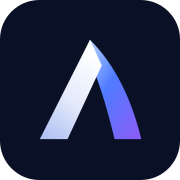
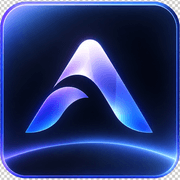
Replace the drawn sky with the artwork, and fix what the files were hiding
The CSS sky banded badly: a dark gradient across a few hundred pixels has
nowhere near enough steps on an 8-bit display, so it stepped where it should
have faded. Photographs carry their own grain and do not do this. The whole
drawn background, the generated starfield and the vector mark are gone.

Three things in the supplied files would have shipped as visible faults, and
each is corrected in scripts/make-brand.mjs next to the measurement that
found it:

The wordmark carries its halo in the colour channels but not in alpha —
79.5% of the file is fully clear, 8.7% fully opaque, under 3% anywhere in
between — so compositing it normally throws the halo away. Reviving it from
the colour channels failed twice: brightness-as-coverage paints the faint
grey halo onto the page and puts the wordmark in a grey box, and dividing
the colour back out trades that for a bright haze with the same rectangular
edge. The halo in the source is a rectangle, so any reconstruction of it is
one. The file is now the letters alone and CSS draws the glow, which
radiates from the glyphs and has no edge to show. 167 KB to 61 KB.

The tile was exported with the editor's transparency checkerboard flattened
into the pixels. It is image data, not transparency, and would have appeared
on every receipt row as grey plaid. The tile is the only region that is
either coloured or dark, which is how its bounds were found; the corners are
masked because cropping a rounded tile from a square leaves four triangles
[…]

diff --git a/docs/index.html b/docs/index.html
@@ -6,7 +6,7 @@
 <title>Aernyth</title>
 <meta name="description" content="Verifiable digital delivery on Arc. Circle's SDK settles the payment; Aernyth proves what was delivered for it.">
 
-<link rel="icon" href="icon.svg" type="image/svg+xml">
+<link rel="icon" href="icon-256.png" type="image/png" sizes="256x256">
 <link rel="apple-touch-icon" href="icon-180.png">
 <meta name="theme-color" content="#060a18">
 
@@ -19,8 +19,10 @@
 <meta property="og:url" content="https://kendu3310.github.io/arcproof/">
 <meta property="og:title" content="Aernyth — verifiable digital delivery">
 <meta property="og:description" content="Paying is easy. Proving delivery is the real problem. Receipts for paid API calls, written to Arc mainnet.">
-<meta property="og:image" content="https://kendu3310.github.io/arcproof/og.png">
+<meta property="og:image" content="https://kendu3310.github.io/arcproof/og.jpg">
 <meta name="twitter:card" content="summary_large_image">
+<meta property="og:image:width" content="1200">
+<meta property="og:image:height" content="630">
 
 <link rel="preconnect" href="https://fonts.googleapis.com">
 <link rel="preconnect" href="https://fonts.gstatic.com" crossorigin>
@@ -58,43 +60,25 @@
     overflow-x:hidden;
   }
 
-  /* ---------------------------------------------------- the night sky --- */
-  /* All of this is CSS and one 10 KB SVG. A photograph of the same scene
-     would be a megabyte or two and still be soft on a retina screen. */
+  /* -------------------------------------------------------------- the sky --- */
+  /* A fixed layer rather than background-attachment:fixed on the body, which
+     iOS Safari renders wrong. The portrait crop is a separate file: letting
+     cover() squeeze the landscape one into a phone throws away both edges,
+     where all the nebula detail is. */
   .space { position:fixed; inset:0; overflow:hidden; pointer-events:none; z-index:0; }
-  .stars {
-    position:absolute; inset:-5%;
-    background:url(stars.svg) 0 0 / 820px 820px repeat;
-    opacity:.55;
-    -webkit-mask-image:linear-gradient(to bottom,#000 0,#000 48%,transparent 82%);
-    mask-image:linear-gradient(to bottom,#000 0,#000 48%,transparent 82%);
+  .sky {
+    position:absolute; inset:0;
+    background:url(bg-desktop.webp) center top / cover no-repeat;
   }
-  .limb {
-    position:absolute; left:50%; top:11vh; transform:translateX(-50%);
-    width:min(260vw,2300px); aspect-ratio:1/1; border-radius:50%;
-    background:radial-gradient(circle at 50% 50%,
-      rgba(8,13,32,.96) 0 49.5%,
-      rgba(168,198,255,.9) 49.5% 49.74%,
-      rgba(96,136,255,.28) 49.74% 50.5%,
-      transparent 50.5%);
-  }
-  .limb::before {
-    content:""; position:absolute; inset:0; border-radius:50%;
-    background:radial-gradient(circle at 50% 50%,
-      transparent 0 49.2%,
-      rgba(96,136,255,.55) 49.5% 50%,
-      transparent 50.8%);
-    filter:blur(22px);
-  }
-  .flare {
-    position:absolute; left:14%; top:16vh; width:46vw; height:34vh;
-    background:radial-gradient(ellipse at center, rgba(120,160,255,.20), transparent 70%);
-    filter:blur(30px);
-  }
+  @media (max-width:820px) { .sky { background-image:url(bg-mobile.webp); } }
+  /* The planet's limb runs bright across the lower third, which is where the
+     panels and the receipt rows land. This darkens from there down so the text
+     keeps its contrast, and leaves the top of the sky alone. */
   .scrim {
-    position:absolute; left:50%; top:0; transform:translateX(-50%);
-    width:min(1100px,96vw); height:78vh;
-    background:radial-gradient(ellipse at 50% 34%, rgba(5,8,20,.78), transparent 72%);
+    position:absolute; inset:0;
+    background:linear-gradient(to bottom,
+      rgba(6,10,24,0) 0%, rgba(6,10,24,.12) 42%,
+      rgba(6,10,24,.62) 68%, rgba(6,10,24,.88) 88%, rgba(6,10,24,.94) 100%);
   }
 
   /* ------------------------------------------------------------- shell --- */
@@ -115,7 +99,7 @@
     mask-image:linear-gradient(to bottom,#000 55%,transparent);
   }
   .brand { display:flex; align-items:center; gap:10px; text-decoration:none; color:var(--text); }
-  .brand svg { width:26px; height:26px; display:block; }
+  .brand img { width:30px; height:30px; object-fit:contain; display:block; }
   .wordmark { font-weight:600; letter-spacing:.26em; font-size:.92rem; }
   .links { display:flex; gap:26px; margin-left:auto; }
   .links a { color:var(--muted); text-decoration:none; font-size:.92rem; }
@@ -135,10 +119,15 @@
 
   /* ---------------------------------------------------------- the hero --- */
   .hero { text-align:center; padding:4vh 0 0; }
-  .hero > svg { width:clamp(76px,13vw,116px); height:auto; display:block; margin:0 auto 18px; }
-  .hero h1 {
-    margin:0; font-size:clamp(2rem,7.2vw,3.6rem); font-weight:600;
-    letter-spacing:.2em; text-indent:.2em; line-height:1;
+  .hero .mark { width:clamp(84px,13vw,124px); height:auto; display:block; margin:0 auto -6px; }
+  .hero h1 { margin:0; line-height:0; }
+  /* The supplied wordmark has its halo in the colour channels but not in
+     alpha, so the file is the letters only and the glow is drawn here —
+     it radiates from the glyphs and so has no edge, which every attempt to
+     rescue the baked-in halo did. */
+  .hero h1 img {
+    width:min(560px,78vw); height:auto; display:block; margin:0 auto;
+    filter:drop-shadow(0 0 22px rgba(150,190,255,.45)) drop-shadow(0 0 48px rgba(110,150,255,.28));
   }
   .tagline { margin:14px 0 0; color:var(--muted); letter-spacing:.14em; font-size:clamp(.8rem,2.3vw,.98rem); }
   .headline {
@@ -224,7 +213,7 @@
     border:1px solid var(--border); background:rgba(12,18,38,.8);
     display:grid; place-items:center; color:var(--accent);
   }
-  .rc .thumb svg { width:22px; height:22px; }
+  .rc .thumb img { width:30px; height:30px; display:block; border-radius:7px; }
   .rc .name { font-family:var(--mono); font-size:.86rem; }
   .rc .meta { color:var(--dim); font-size:.74rem; margin-top:2px; }
   .k { display:block; color:var(--dim); font-size:.7rem; letter-spacing:.06em; margin-bottom:3px; }
@@ -315,30 +304,13 @@
 <body>
 
 <div class="space" aria-hidden="true">
-  <div class="stars"></div>
-  <div class="limb"></div>
-  <div class="flare"></div>
+  <div class="sky"></div>
   <div class="scrim"></div>
 </div>
 
-<svg width="0" height="0" style="position:absolute" aria-hidden="true">
-  <defs>
-    <linearGradient id="aw" x1="0.15" y1="0.05" x2="0.95" y2="1">
-      <stop offset="0" stop-color="#a9c6ff"/><stop offset="0.38" stop-color="#4f7cff"/><stop offset="1" stop-color="#8b5cf6"/>
-    </linearGradient>
-    <linearGradient id="ab" x1="0.55" y1="0" x2="0.1" y2="1">
-      <stop offset="0" stop-color="#ffffff"/><stop offset="0.55" stop-color="#e2e9fb"/><stop offset="1" stop-color="#aebff2"/>
-    </linearGradient>
-    <symbol id="mark" viewBox="0 0 100 100">
-      <path d="M50 3 C74 27 89 59 98 96 L73 96 C65 63 57 37 46 14 Z" fill="url(#aw)"/>
-      <path d="M50 3 L61 27 L29 96 L3 96 Z" fill="url(#ab)"/>
-    </symbol>
-  </defs>
-</svg>
-
 <header class="nav">
   <a class="brand" href="#top" aria-label="Aernyth, home">
-    <svg viewBox="0 0 100 100"><use href="#mark"/></svg>
+    <img src="mark-nav.webp" alt="" width="30" height="30">
     <span class="wordmark">AERNYTH</span>
   </a>
   <nav class="links">
@@ -358,8 +330,8 @@
 <main class="wrap" id="top">
 
   <section class="hero">
-    <svg viewBox="0 0 100 100" aria-hidden="true"><use href="#mark"/></svg>
-    <h1>AERNYTH</h1>
+    <img class="mark" src="mark.webp" alt="" width="700" height="538" fetchpriority="high">
+    <h1><img src="wordmark.webp" alt="Aernyth" width="1200" height="141"></h1>
     <p class="tagline">Verifiable digital delivery.</p>
 
     <h2 class="headline">Paying is easy. <em>Proving delivery</em> is the real problem.</h2>
@@ -527,7 +499,7 @@ const TOPIC0 = "0x" + keccak256(EVENT_SIG);
 
 const ICON_COPY = `<svg viewBox="0 0 24 24" fill="none" stroke="currentColor" stroke-width="1.8" aria-hidden="true"><rect x="9" y="9" width="12" height="12" rx="2"/><path d="M5 15V5a2 2 0 0 1 2-2h10"/></svg>`;
 const ICON_LINK = `<svg viewBox="0 0 24 24" fill="none" stroke="currentColor" stroke-width="1.8" aria-hidden="true"><path d="M7 17 17 7M9 7h8v8"/></svg>`;
-const ICON_CUBE = `<svg viewBox="0 0 24 24" fill="none" stroke="currentColor" stroke-width="1.5" aria-hidden="true"><path d="m12 2 9 5v10l-9 5-9-5V7Z"/><path d="m3 7 9 5 9-5M12 12v10"/></svg>`;
+const ICON_CUBE = `<img src="tile-128.webp" alt="" width="30" height="30">`;
 
 let config = null;
 let current = null;
